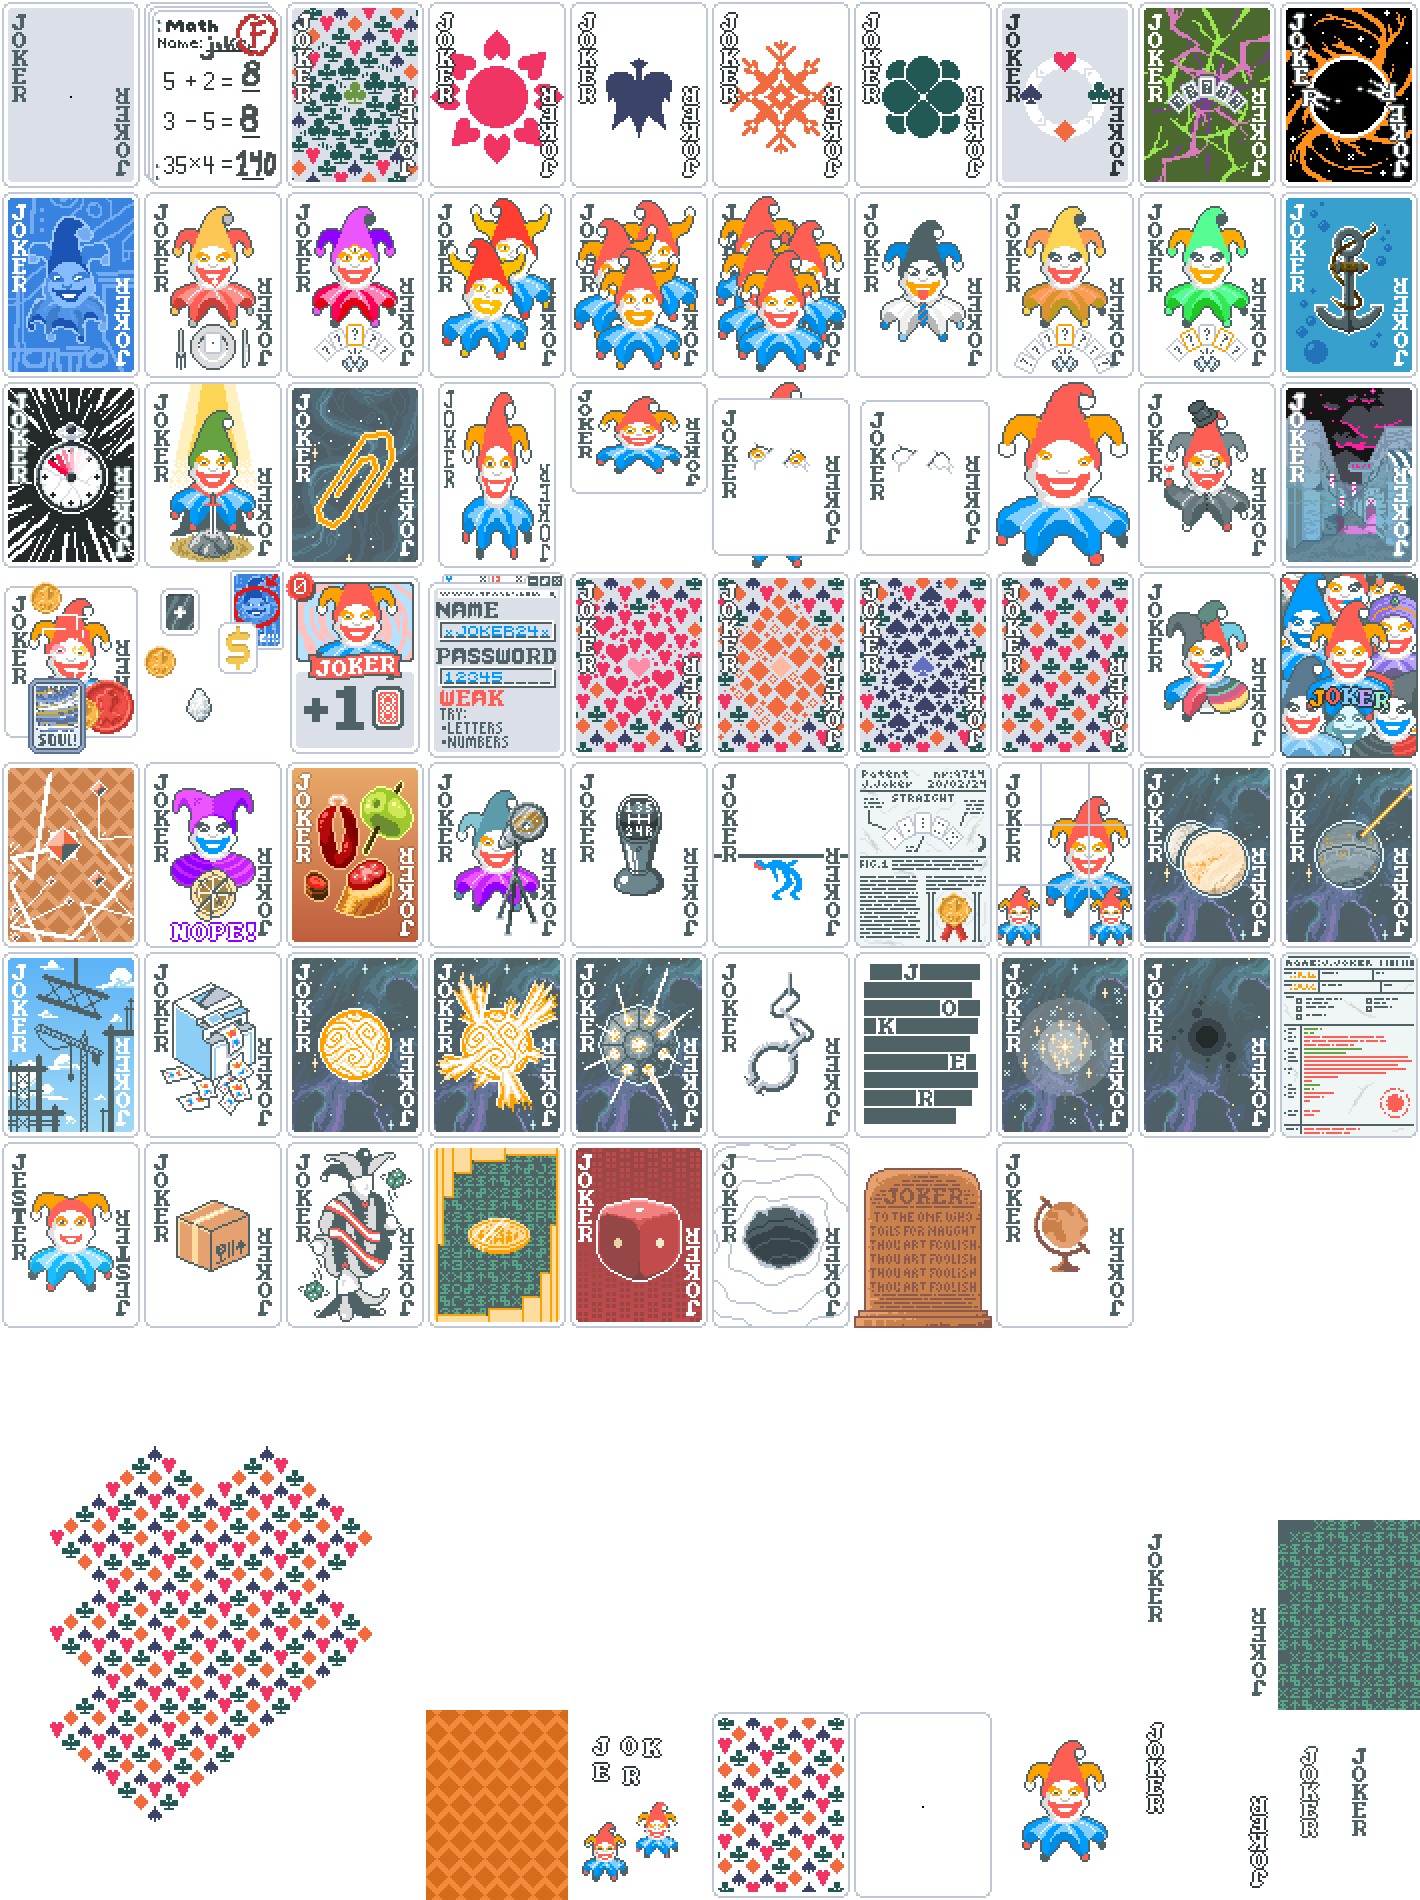
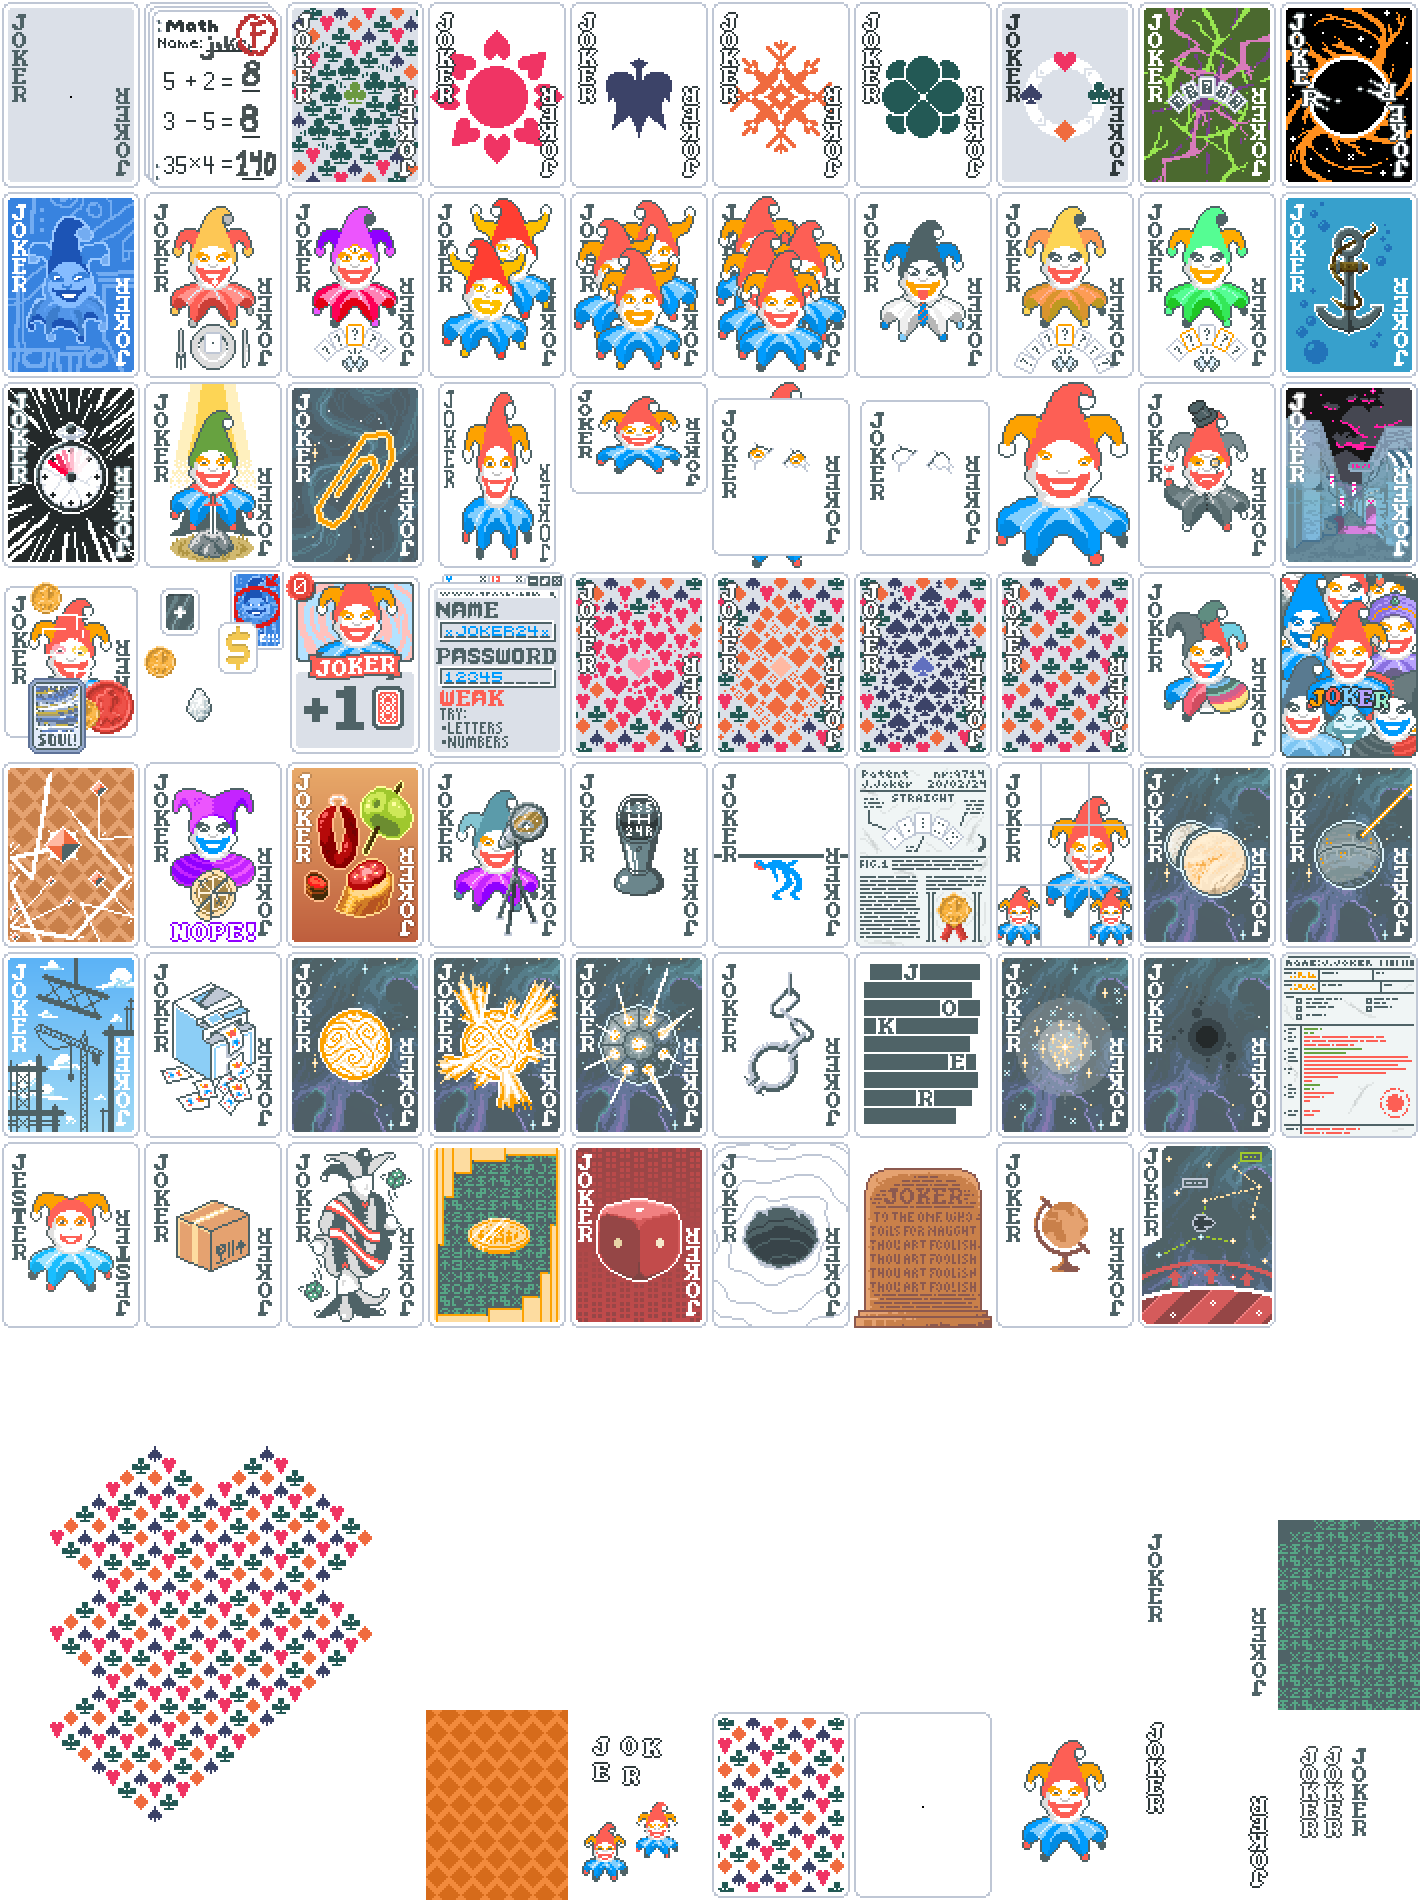
Add Sector Map

Changed region(s): [[0.8056, 0.59, 0.8986, 0.7142], [0.9296, 0.9316, 0.9606, 0.9626]]

diff --git a/web/addjokers.js b/web/addjokers.js
@@ -547,6 +547,15 @@ let jokers = [
     image_url: "img/j/globe.png",
     rarity: "Common"
   },
+  {
+    name: "Sector Map",
+    text: [
+      "When playing {C:attention}5{}-card {C:attention}poker hands{}, create the {C:planet}Planet{} for a {C:attention}5{}-card {C:attention}poker hand{}",
+      "{C:inactive}(Must have room)",
+    ],
+    image_url: "img/j/sector_map.png",
+    rarity: "Uncommon"
+  },
 
   // {
   //   name: "",
